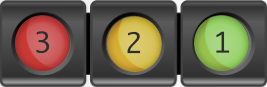
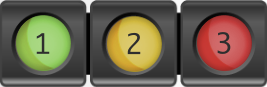
Modifiy the helper image of the third widget and add the js to render the helper image on the agent form

Changed region(s): [[0.7191, 0.1609, 0.9588, 0.8276], [0.03, 0.1609, 0.2697, 0.8276], [0.4494, 0.3678, 0.5393, 0.6207]]

diff --git a/admin/widget/static/js/main.js b/admin/widget/static/js/main.js
@@ -18,7 +18,16 @@
       const $totalLevelDrowpdown = $('#id_widget-0-total_level')
       const max = $totalLevelDrowpdown.val()
       setLevelValues(1, max)
+      addLevelHelpermImage(max)
 
+    }
+
+    function addLevelHelpermImage(level) {
+      const $widgetContainer = $('#widget-group')
+      const $imageHelper = $('<img />').attr("src", '/static/img/' + level + '-widget-complete.png')
+      const $imageContainer = $('<div class="level-helper-img-container"></div>').html($imageHelper)
+      $('.level-helper-img-container').remove()
+      $widgetContainer.after($imageContainer)
     }
   
     function initListeners() {
@@ -27,6 +36,7 @@
       $('body').on('change', '#id_widget-0-total_level', function(e){
         const max = e.target.value
         setLevelValues(1, max)
+        addLevelHelpermImage(max)
       })
 
       // Agent form level number input

diff --git a/admin/widget/static/scss/admin.css b/admin/widget/static/scss/admin.css
@@ -2,3 +2,17 @@
   width: 50%;
   float: left;
 }
+
+#agent_form .inline-related {
+  position: unset !important;
+}
+
+.level-helper-img-container {
+  padding: 1rem 3rem;
+  display: inline-block
+}
+
+.level-helper-img-container img {
+  width: 85%;
+  height: 70px;
+}
